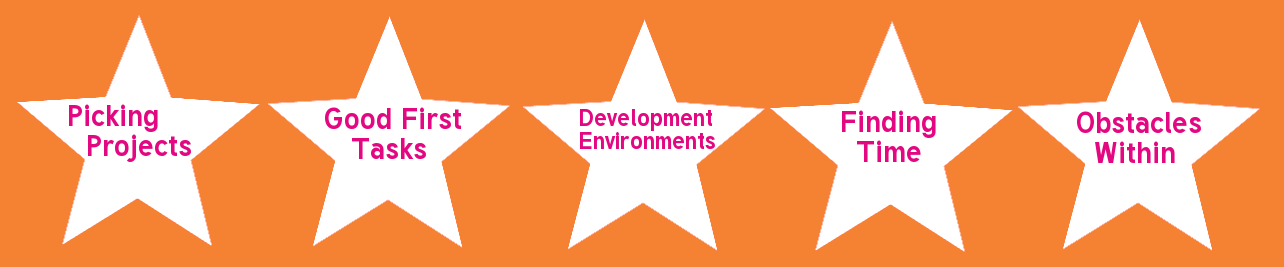
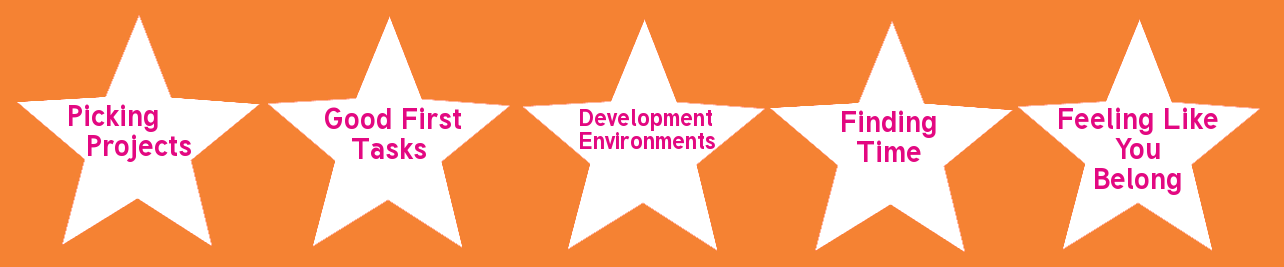
Update pycon talk

Changed region(s): [[0.81, 0.3895, 0.9657, 0.7191]]

diff --git a/pycon2015.html b/pycon2015.html
@@ -39,7 +39,7 @@
 				<p class="filler"></p>
 				<h5>Shauna Gordon-McKeon</h5>
 				<p class="filler"></p>
-				<h5>These slides: <a href="">bit.ly/link</a></h5>
+				<h5>These slides: <a href="http://bit.ly/shauna-pycon-slides">bit.ly/shauna-pycon-slides</a></h5>
 			</section>
 
 			<section class="intro" data-background="#f58233">
@@ -453,20 +453,14 @@
 
 			<section class="impostor" data-background="#24a7dd">
 				<h3>Impostor Syndrome</h3>
-				<p>aka feeling like a fraud, like you're not good enough</p>
-				<p>See Julia Pagano's <a href="http://pyvideo.org/video/2659/its-dangerous-to-go-alone-battling-the-invisibl">excellent talk</a> from last year's PyCon</p>
+				<p>aka feeling like a fraud</p>
+				<p>See Julie Pagano's <a href="http://pyvideo.org/video/2659/its-dangerous-to-go-alone-battling-the-invisibl">excellent talk</a> from last year's PyCon.</p>
 			</section>
 
 			<section class="impostor" data-background="#24a7dd">
 				<h3>Maintainers</h3>
-				<p>You don't have to know everything:</p>
-				<ul>
-				<li>show that you're still learning</li>
-				<li>show how you're still learning</li>
-				<li>embrace your mistakes</li>
-			</ul>
-			<p class="filler"></p>
-				<p>Check out the <a href="https://www.hackerschool.com/manual#sub-sec-social-rules">Hacker School Social Rules</a>:</p>
+				<p>You don't have to know everything!</p>
+				<p>Check out the <a href="https://www.hackerschool.com/manual#sub-sec-social-rules">Recurse Center (Hacker School) Social Rules</a>:</p>
 				<ul>
 				<li>No feigning surprise</li>
 				<li>No well-actually's</li>
@@ -483,13 +477,18 @@
 				<li><a href="https://github.com/nickdesaulniers/What-Open-Source-Means-To-Me/blob/master/README.md">What Open Source Means to Me</a></li>
 				</section>
 
+				<section class="setup" data-background="images/pycon2015/mergestories.png" style="background: rgba(255,255,255,0.8)" class="whitebg leftjustify" data-transition="fade">
+					<h3 style="color:#24a7dd;">Let others learn from your hard work</h3>
+				</section>
+
 
 			<section class="conclusion" data-background="#f58233">
 				<h3>Takeaways</h3>
 				<ul>
-				<li>Make the implicit explicit.</li>
-				<li>Not every match is a good one, and that's okay!</li>
-				<li>We are all always learning.</li>
+				<li class="fragment">Explicit is better than implicit.</li>
+				<li class="fragment">Having preferences is preferable.</li>
+				<li class="fragment">Confusion and frustration are natural.</li>
+				<li class="fragment">Confusion and frustration lead to great learning experiences.</li>
 				</ul>
 			</section>
 
@@ -498,17 +497,20 @@
 				<p><a href="https://openhatch.readthedocs.org/en/latest/community/contact.html">The OpenHatch community</a>,
 					especially Carol Willing, Asheesh Laroia and Jessica McKellar</p>
 				<p><a href="http://www.meetup.com/bostonpython/">Boston Python User Group</a>, especially Ned Batchelder</p>
-
-		<!--		<p>Example projects: <a href=""></a>, <a href=""></a>, <a href=""></a>, <a href=""></a>,
-				<a href=""></a>, <a href=""></a>, <a href=""></a>, <a href=""></a>, <a href=""></a>.</p> -->
-		<p class="filler"></p>
+				<p class="filler"></p>
+				<p class="filler"></p>
 				<h5>Follow up</h5>
 				<p><a href="https://events.openhatch.org/events/5">Newcomer Workshop</a> this Sunday!</p>
-				<p>OpenHatch: <a href="http://openhatch.org/">Main website</a>, <a href="http://campus.openhatch.org/">Open Source Comes to Campus</a>, @openhatch, <a href="https://openhatch.readthedocs.org/en/latest/community/contact.html">#openhatch on Freenode</a></p>
+				<p class="filler"></p>
+				<p>OpenHatch: <a href="http://openhatch.org/">Main website</a>, <a href="http://campus.openhatch.org/">Open Source Comes to Campus</a>, <a href="http://mergestories.com/">MergeStories</a>,<br /> <a href="https://github.com/shaunagm/welcomebot">WelcomeBot</a>, Twitter: @openhatch, <a href="https://openhatch.readthedocs.org/en/latest/community/contact.html">#openhatch on Freenode</a></p>
+				<p class="filler"></p>
 				<p>Me: shaunagm@gmail.com, @shauna_gm</p>
 			</section>
 
 			<section class="conclusion" data-background="#f58233">
+				<h5>Example Projects</h5>
+				<p>Open edX, Django, Django-braces, Django-tagging, SciPy<br />Khmer, Linux Kernel, Privly, Pyramid, Pandas</p>
+				<p class="filler"></p>
 				<h5>Images (in order)</h5>
 				"The New Fred Meyer on Interstate on Lombard" by Lyza CC BY SA 2.0<br /> <a href="https://www.flickr.com/photos/lyza/49545547/">https://www.flickr.com/photos/lyza/49545547/</a>
 				<br />
